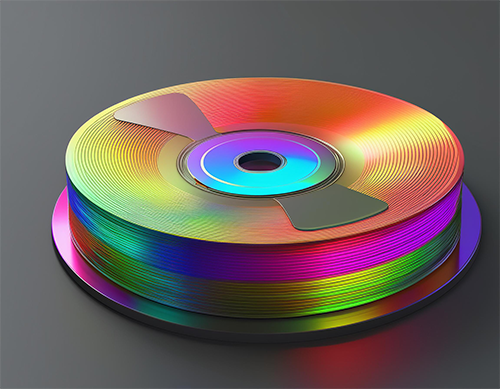
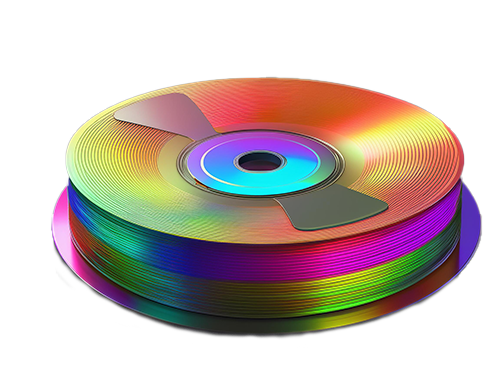
2

diff --git a/scr/html/index.html b/scr/html/index.html
@@ -8,15 +8,22 @@
 	<meta name="viewport" content="width=device-width, initial-scale=1.0"/>
 
 	<title>nu metal</title>
+	<link rel="icon" type="image/x-icon" href="C:\Users\oscar.thompson252\programming\website\doc\icon1.png">
 	<link rel="stylesheet" href="C:\Users\oscar.thompson252\programming\website\scr\css\index.css">
 	<script src="C:\Users\oscar.thompson252\programming\website\scr\javascript\index.js"></script>
 </head>
 <body>
-	<h1 class="top_page">Big Beats
-	<img class="pic" src="C:\Users\oscar.thompson252\programming\website\doc\photo1.png" alt="picture of cd">
-	<a class="links" href="gen_shop.html">View Deals</a>
-	<a class="links" href="band_tours.html">Band Tours</a>
-	<h1>
-
+<div id="w">
+	<div id="h">
+		<script>
+		size()
+		</script>
+		<h1 class="top_page">Big Beats
+		<img class="pic" src="C:\Users\oscar.thompson252\programming\website\doc\photo1.png" alt="picture of cd">
+		<a class="links" href="gen_shop.html">View Deals</a>
+		<a class="links" href="band_tours.html">Band Tours</a>
+		</h1>
+	</div>
+</div>
 </body
 </html>

diff --git a/scr/css/index.css b/scr/css/index.css
@@ -3,7 +3,7 @@
 	width: 100%;
 	background-color: black;
 	color: white;
-	font-size: 100px;
+	font-size: 200px;
 	border-radius: 2px;
 	display: block;
 }
@@ -11,7 +11,7 @@
 .pic { 
 	float: left;
 	margin: 0px;
-	width: 147.8px;
+	width: 295px;
 	border-radius: 2px;
 }
 
@@ -35,4 +35,8 @@ a:hover {
 
 body {
 	margin: 0;
+}
+
+.flexer {
+	flex: 2 1 auto;
 }

diff --git a/scr/javascript/index.js b/scr/javascript/index.js
@@ -1,0 +1,10 @@
+
+function size(){
+	let sw = screen.width;
+	let sh = screen.height;
+	let ash = sh * 0.20;
+	console.log(ash);
+	console.log(sw + 'x' + sh);
+	document.getElementById("w").style.width = 'sw';
+	document.getElementById("h").style.height = 'ash';
+}
